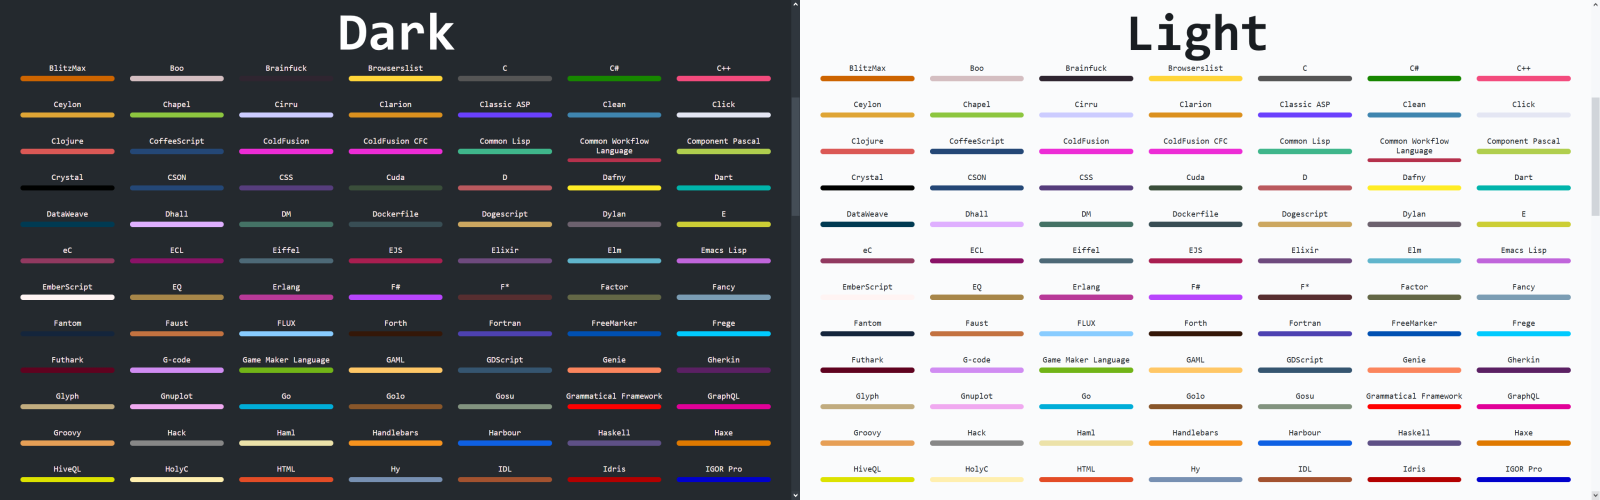
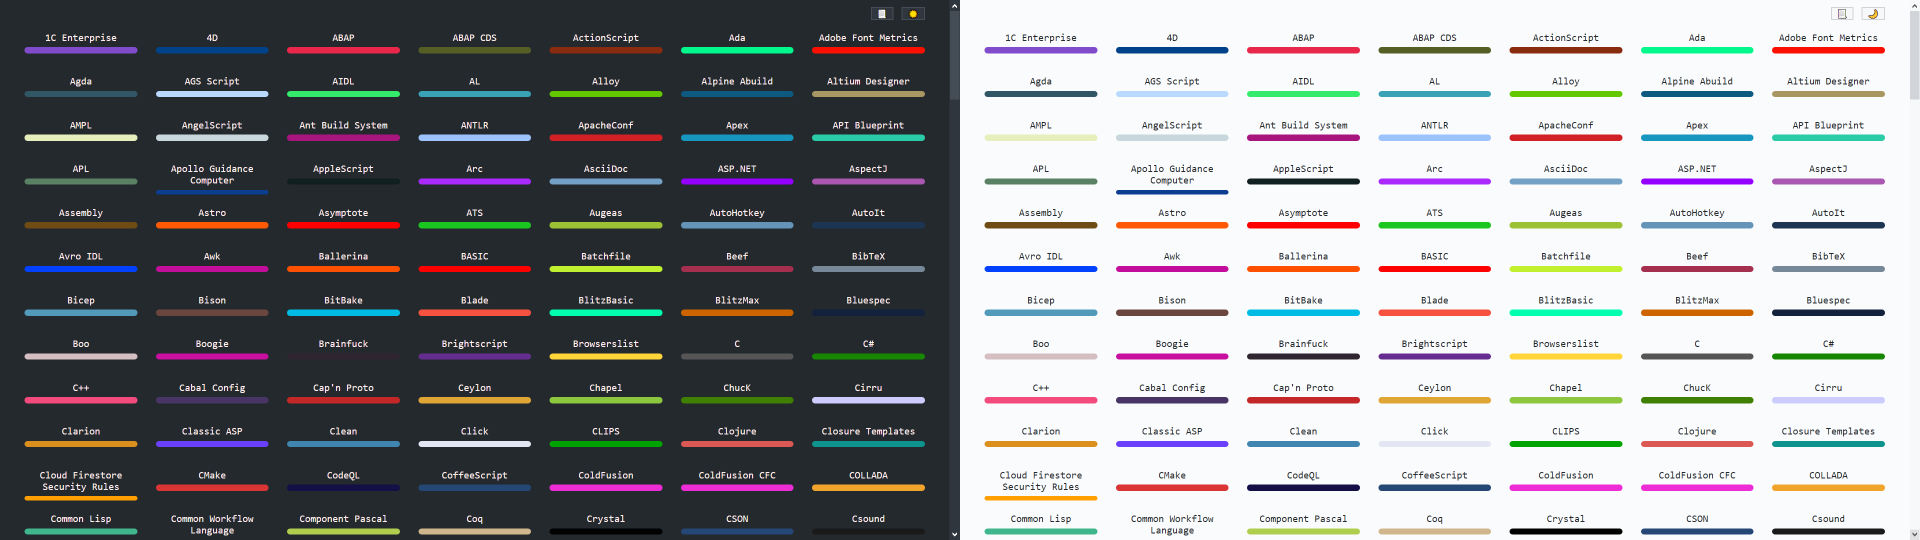
Buttons.
Added buttons instead of the bad keyboard interface. Used a pretty
clever CSS trick to get them to line up nicely with the language
info boxes.

diff --git a/main.js b/main.js
@@ -1,27 +1,48 @@
 const d = document;
 const root = d.documentElement;
 
-const prefersLight = matchMedia("(prefers-color-scheme: light)").matches;
-
-if (prefersLight) {
-   root.className = "light";
+var lights = matchMedia("(prefers-color-scheme: light)").matches;
+const btnLights = d.getElementById("lights");
+function commitLights() {
+   if (lights) {
+      btnLights.innerText = "🌙";
+      btnLights.title = "Turn off the lights."
+      d.documentElement.className = "light";
+   } else {
+      btnLights.innerText = "☀";
+      btnLights.title = "Turn on the lights."
+      d.documentElement.className = "";
+   }
 }
+commitLights();
+function toggleLights() {
+   lights ^= 1;
+   commitLights();
+}
+btnLights.addEventListener("click", toggleLights);
 
-const lang_req = new XMLHttpRequest();
+const reqLanguagesYml = new XMLHttpRequest();
 const yamlfile = "https://raw.githubusercontent.com/github/linguist/master/lib/linguist/languages.yml"
-lang_req.open("GET", yamlfile, false);
-lang_req.send(null);
+reqLanguagesYml.open("GET", yamlfile, false);
+reqLanguagesYml.send(null);
 
-if (lang_req.status !== 200) {
+if (reqLanguagesYml.status !== 200) {
    throw request.status;
 }
+
+const langData =
+   Object
+      .entries(jsyaml.load(reqLanguagesYml.responseText))
+      .map(([name, {color}]) => ({name, color}));
+
+langData.sort((a, b) => a.name.toLowerCase() > b.name.toLowerCase());
 
 class LangInfo extends HTMLElement {
    constructor(name, hex) {
       super();
+      this.className = "lang-info";
       if (hex == null) {
-         this.style.display = "none";
-         return;
+         LangInfo.noHex.push(this);
       }
 
       const title = d.createElement("span");
@@ -35,22 +56,36 @@ class LangInfo extends HTMLElement {
       this.appendChild(color);
    }
 }
-
+LangInfo.noHex = [];
 customElements.define("lang-info", LangInfo);
 
-const languages = jsyaml.load(lang_req.responseText);
-const lang_names = Object.keys(languages);
-const lang_colors = Object.fromEntries(
-   Object.entries(languages)
-      .map(([name, {color}]) => [name, color])
-);
+const langInfos = langData.map(({name, color}) => new LangInfo(name, color));
 
-const lcstrcmp = (a, b) => a.toLowerCase() > b.toLowerCase();
+var hidden = true;
+const bnHidden = d.getElementById("hidden")
+function commitHidden() {
+   if (hidden) {
+      bnHidden.innerText = "📃";
+      bnHidden.title = "Display colorless languages."
+      for (const info of LangInfo.noHex) {
+         info.style.display = "none";
+      }
+   } else {
+      bnHidden.innerText = "🎨";
+      bnHidden.title = "Only show colored languages."
+      for (const info of LangInfo.noHex) {
+         info.style.display = "";
+      }
+   }
+}
+commitHidden();
+function toggleHidden() {
+   hidden ^= 1;
+   commitHidden();
+}
+bnHidden.addEventListener("click", toggleHidden);
 
-lang_names.sort(lcstrcmp);
-
-lang_names.forEach(
-   name => d.body.appendChild(new LangInfo(name, lang_colors[name]))
-);
-
-onkeypress = k =>  root.className = root.className ? "" : "light";
+const divLangs = d.getElementById("langs")
+for (const info of langInfos) {
+   divLangs.appendChild(info);
+}

diff --git a/style.css b/style.css
@@ -1,17 +1,19 @@
-/* If you are writing usercss for this page, override the vars in here */
-
 :root {
    --ffamily: Menlo, Monaco, Consolas, monospace;
    --fsize: 16px;
+
+   --control-space: 40px;
+
    --lang-width: 190px;
    --lang-height: 50px;
    --lang-margin: 10px;
-   transition: all ease-out .3s;
 
    --bg: #24292e;
    --fg: #fee;
    --scroll-bg: #2f363d;
    --scroll-fg: #444d56;
+
+   transition: all ease-out .3s;
 }
 
 :root.light {
@@ -41,6 +43,15 @@ body {
    scrollbar-color: var(--scroll-fg) var(--scroll-bg);
 }
 
+#controls {
+   height: var(--control-space);
+}
+
+#langs {
+   display: inline;
+   position: relative;
+}
+
 lang-info {
    border-radius: 3px;
    display: inline flex;
@@ -56,4 +67,21 @@ lang-info {
    width: 95%;
    border-radius: 420px;
    height: 10px;
+}
+
+button {
+   position: absolute;
+   background-color: var(--scroll-bg);
+   border: 2px solid var(--scroll-fg);
+   top: calc(0px - var(--control-space));
+}
+
+#lights {
+   --offset-right: 5px;
+   right: calc(var(--lang-margin) + var(--offset-right));
+}
+
+#hidden {
+   --offset-right: 55px;
+   right: calc(var(--lang-margin) + var(--offset-right));
 }

diff --git a/index.html b/index.html
@@ -14,7 +14,8 @@
    <script src="vendor/js-yaml.min.js"></script>
 </head>
 <body>
-   <div id="langs"></div>
+   <div id="controls"></div>
+   <div id="langs"><button id="lights"></button><button id="hidden"></button></div>
    <script src="main.js"></script>
 </body>
 </html>

diff --git a/README.md b/README.md
@@ -4,7 +4,5 @@
 
 ![](misc/preview_h500.png)
 
-Press any key to swap color schemes.
-
 They disabled github pages on linguist so I made my own.
 See [linguist/pull/5029](https://github.com/github/linguist/pull/5029#issuecomment-759345026).
